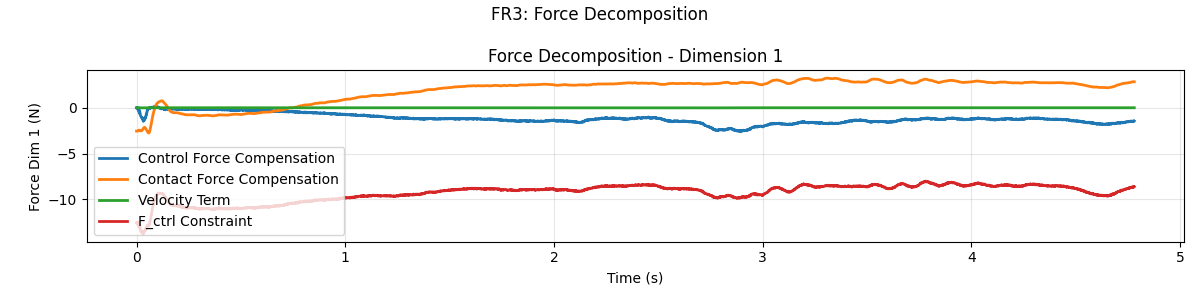
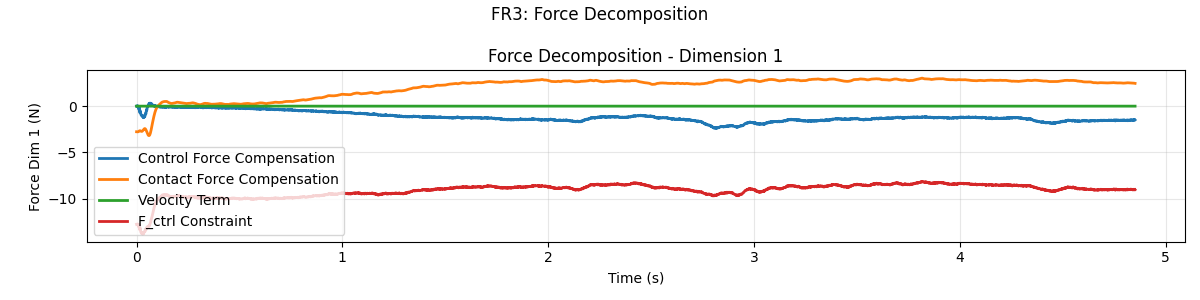
set up joint and surface friction in xml file, and it doesn't influence real robot results when draw line

diff --git a/src/robot_configs.py b/src/robot_configs.py
@@ -23,7 +23,7 @@ class RobotConfig:
 # FR3 Robot Configuration
 FR3_CONFIG = RobotConfig(
     name="fr3",
-    pinocchio_xml_path="franka_fr3/fr3.xml",
+    pinocchio_xml_path="franka_fr3/fr3_no_joint_friction.xml",
     mujoco_scene_xml_path="franka_fr3/scene.xml",
     joint_names=[
         'fr3_joint1', 'fr3_joint2', 'fr3_joint3', 'fr3_joint4', 
